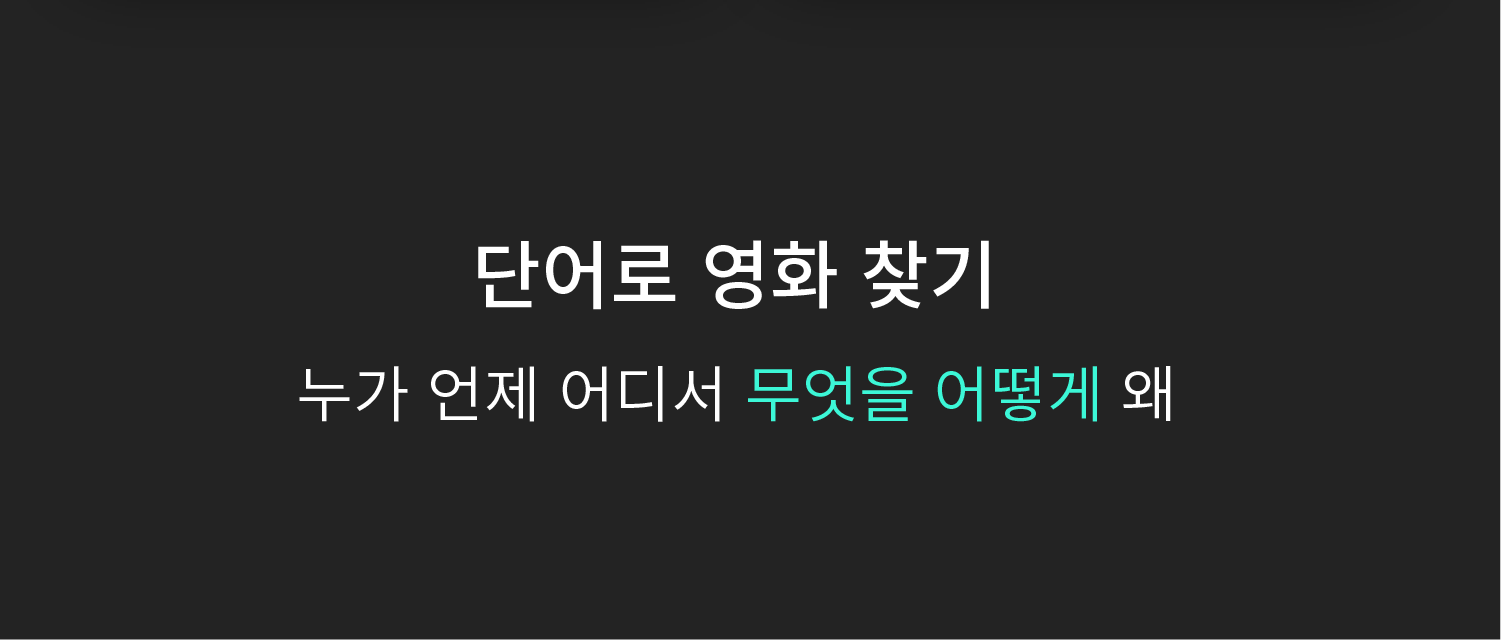
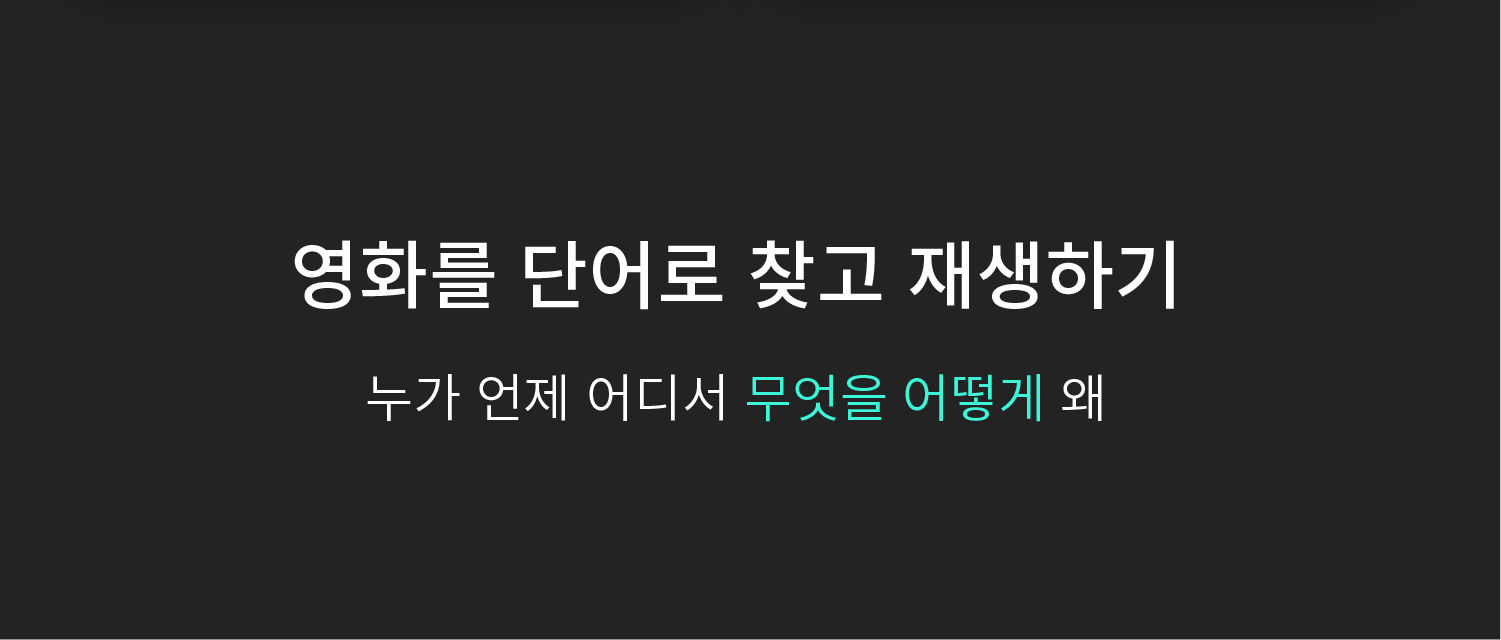
내용 업데이트

Changed region(s): [[0.1839, 0.375, 0.7968, 0.5], [0.1839, 0.5625, 0.7968, 0.6562]]

diff --git a/design-thinking.html b/design-thinking.html
@@ -56,14 +56,14 @@
             <div class="article-title">
                 디자인 사고</div>
             <div class="article-h1">
-                디자인 사고는 무언가를 창조할 때 생각하는 과정입니다. 관찰을 통해 문제를 정의하고 많은 가능성을 실험을 통해 성공과 실패를 반복하며 발전해나가는 방법론입니다. 이 과정에서 정리한 내용들이 문제 해결 방법을 선택하는 기준이 됩니다.<br><br> 주관, 느낌, 번뜩이는 아이디어, 천재와 같은 개념으로 오해받는 창의성을 명확하게 다루기 위한 접근 방식으로 '자신이 만들고 싶은 것'이 무엇이며 필요한 정보들이 무엇인지 명확하게 파악할 수 있습니다. 이 과정을 눈에 보이도록 기록해 각 단계 마다 필요한 것들을 나 혹은 구성원에게 명확하게 요구할 수 있습니다.
+                디자인 사고는 창조할 때 생각하는 과정입니다. 관찰을 통해 문제를 정의하고 실험을 통해 성공과 실패를 반복하며 발전해나가는 방법론입니다. 이 과정에서 정리한 내용이 여러 가능성 중에서 가장 적합한 방법을 선택하는 기준이 됩니다.<br><br> 주관, 느낌, 번뜩이는 아이디어, 천재와 같은 개념으로 오해받는 창의성을 명확하게 다루기 위한 접근 방식으로 '자신이 만들고 싶은 것'이 무엇이며 필요한 정보들이 무엇인지 명확하게 파악할 수 있습니다. 과정을 눈에 보이도록 기록해 각 단계마다 필요한 것들을 나 혹은 구성원에게 명확하게 요구할 수 있습니다.
             </div>
             <img class="article-img" src="./img/design-system/design_thinking/thinking_main@2x.png">
 
             <div class="article-title">
                 현상</div>
             <div class="article-h1">
-                무슨 일이 일어나고 있는지 알아내는 단계입니다. 이 단계는 어떤 맥락에 속해 있느냐에 따라 주제가 다릅니다. 모든 것을 관찰할 수는 없기 때문에 나 혹은 단체가 속해 있는 맥락이 무엇인지 파악한 뒤 관찰할 대상을 정합니다.
+                무슨 일이 일어나고 있는지 알아내는 단계입니다. 어떤 맥락에 속해 있느냐에 따라 주제가 다르며 모든 것을 관찰할 수는 없기 때문에 나 혹은 단체가 속해 있는 맥락이 무엇인지 파악한 뒤 관찰할 대상을 정합니다.
             </div>
             <img class="article-img" src="./img/design-system/design_thinking/thinking_hypothesis@2x.png">
             <div class="article-h1">
@@ -76,7 +76,7 @@
             </div>
 
             <div class="article-title">
-                발견</div>
+                수집</div>
             <div class="article-h1">
                 관찰할 현상을 선택했다면 연관된 모든 것들을 기록합니다. 발산형 사고가 필요한 단계로 한계를 두지 않고 최대한 '양'에 집중해서 목록을 만듭니다. 되도록 부사, 추상적 의견이 섞이지 않도록 주의하면서 정성적, 정량적 정보를 최대한 확보합니다.
             </div>
@@ -86,12 +86,12 @@
             <div class="article-h1">
                 <ul>
                     <li><b>브레인스토밍</b></li>
-                    분석적인 판단을 하기 전에 팀이 모여 주제와 연관된 발상을 가능한 많이 끌어내는 방법입니다.<br><br>
+                    분석적인 판단을 하기 전에 팀이 모여 주제와 연관된 발상을 가능한 한 많이 끌어내는 방법입니다.<br><br>
                     <li><b>필드 리서치</b></li>
                     사용자와 직접 대면해 어떤 환경에서 어떤 행동을 하는지 관찰하는 방법입니다.
                     <br><br>
                     <li><b>사용자 인터뷰</b></li>
-                    다수 혹은 소수의 사람들에게 제한된 상황을 설정 속에서 질문을 하고 구체적인 목표를 어떻게 수행하는지 관찰하는 방법입니다.
+                    다수 혹은 소수의 사람에게 제한된 상황을 설정 속에서 질문하고 구체적인 목표를 어떻게 수행하는지 관찰하는 방법입니다.
                     <br><br>
                     <li><b>터치 포인트 </b></li>
                     사용자와의 모든 접점을 말합니다. 위치, 장소, 웹, 메일링(이메일과 우편), VOC 채널 상품 등이 있으며 서비스 디자인뿐만 아니라 브랜딩과도 밀접한 관계가 있습니다.<br><br>
@@ -103,16 +103,16 @@
                 이해
             </div>
             <div class="article-h1">
-                발견 단계에서 찾은 수많은 정보를 정리하는 단계입니다. 수렴적 사고가 필요한 단계로 현상을 설명할 수 있는 '질'이 높은 정보를 찾아내야합니다. 원인과 결과, 구조와 원리를 파악한 뒤 다양한 가설를 세워 실행 단계로 넘어갑니다.
+                수집 단계에서 찾은 수많은 정보를 정리하는 단계입니다. 수렴적 사고가 필요한 단계로 현상을 설명할 수 있는 '질'이 높은 정보를 찾아내야 합니다. 현상이 일어난 원인과 결과를 파악한 뒤 다양한 가설을 세워 실행 단계로 넘어갑니다.
             </div>
             <img class="article-img" src="./img/design-system/design_thinking/thinking_analysis@2x.png">
             <div class="article-h1">
                 <ul>
                     <li><b>페르소나</b></li>
-                    가상으로 사용자를 설정하는 방법입니다. 우선순위는 사용자가 누구냐에 따라 달리지기 때문에 가장 먼저 정의해야합니다.
+                    가상으로 사용자를 설정하는 방법입니다. 사용자가 누구냐에 따라 많은 기준이 달라지기 때문에 가장 먼저 정의하는 것이 좋습니다. 
                     <br><br>
                     <li><b>사용자 여정 맵</b></li>
-                    서비스와 처음 만나는 지점부터 끝나는 지점까지의 과정을 그림이나 사진, 도표 등으로 시각화 하는 방법입니다. 어떤 단계에서 불편함을 느끼는지 찾는데 도움이 됩니다.
+                    서비스와 처음 만난 지점부터 끝나는 지점까지의 과정을 그림이나 사진, 도표 등으로 시각화하는 방법입니다. 
                     <br><br>
                 </ul>
             </div>
@@ -121,7 +121,7 @@
             <div class="article-title">
                 계획</div>
             <div class="article-h1">
-                이해 단계에서 찾아낸 정보를 토대로 문제를 해결할 방법을 찾는 단계입니다. 다양한 가설에 기반해 실현 가능한 방법을 찾습니다. 어떤 디바이스에 어떤 컨텐츠 혹은 서비스로 문제를 해결해줄지 목록을 작성합니다.
+                이해 단계에서 찾아낸 정보를 토대로 문제를 해결할 방법을 찾는 단계입니다. 다양한 가설에 기반해 실현 가능한 방법을 찾습니다. 현실적으로 실행할 수 있는 방법을 찾아내고 구체적으로 어떻게 실행할지를 결정합니다.
             </div>
             <img class="article-img" src="./img/design-system/design_thinking/thinking_plan@2x.png">
             <div class="article-h1">
@@ -137,7 +137,7 @@
             <div class="article-title">
                 제작</div>
             <div class="article-h1">
-                계획 단계에서 정한 범위 안에서 실제로 구현하는 단계입니다. 시각적인 구현과 개발이 되어 실제로 사용자가 사용할 수 있는 단계까지를 말합니다. 이 단계에서 Lean 혹은 Agile 방법론이 많이 사용되고 있습니다.
+                계획 단계에서 정한 범위 안에서 구현하는 단계로 실제로 사용자가 바로 사용할 수 있는 형태를 만들어냅니다. 웹, 모바일 제작 테크닉부터 인지심리학, HCI(Human-Computer Interface)와 같은 이론들이 적용됩니다.
             </div>
 
             <img class="article-img" src="./img/design-system/design_thinking/thinking_make@2x.png">
@@ -153,7 +153,7 @@
             <div class="article-title">
                 결과</div>
             <div class="article-h1">
-                가설에 맞춰 행동한 것이 어떤 결과를 가져왔는지 체크합니다. 테스트와 데이터 아날리스트가 여기서 적용됩니다. 결과가 만족스럽지 않다면 어느 단계를 개선해야할지 다시 확인해야합니다.
+                어떤 결과가 나왔는지 확인하는 단계입니다. 이해 단계에서 세웠던 가설에 따라 선택한 방법이 의도한대로 작동했는지 확인합니다. 만약 의도한 결과가 나오지 않았다면, 문제가 있다고 의심되는 단계부터 다시 시작합니다.
             </div>
 
             <img class="article-img" src="./img/design-system/design_thinking/thinking_result@2x.png">

diff --git a/pattern.html b/pattern.html
@@ -64,7 +64,7 @@
             <div class="article-title">
                 요소</div>
             <div class="article-h1">
-                패턴은 서비스의 핵심 목적을 달성하기 위해 다양한 패턴을 사용합니다. 복잡하게 조합이 되어 구성되므로 종류를 구분하기가 어렵지만 어떤 상황에서도 3가지 요소를 생각해야합니다.
+                서비스의 핵심 목적을 달성하기 위해 다양한 패턴을 사용합니다. 복잡하게 조합이 되어 구성되므로 종류를 구분하기가 어렵지만 어떤 패턴에서도 3가지 요소가 필요합니다.
                 <ul>
                     <li><b>맥락:</b> 사용자가 어떤 상황에서 무엇이 필요한가</li>
                     <li><b>흐름:</b> 어떤 과정을 거치는가 </li>
@@ -75,7 +75,7 @@
             <div class="article-title">
                 고르기</div>
             <div class="article-h1">
-                맥락과 흐름을 구체적으로 정했다면 되도록 OS에서 제시하는 보편적인 패턴을 사용하는 것이 사용자 경험을 유지하는데 도움이 됩니다. (사용자는 언제나 OS를 사용하던 중 서비스를 이용할 것입니다.)
+                3가지 요소를 구체적으로 이해했다면 되도록 OS에서 제시하는 보편적인 패턴을 사용하는 것이 사용자 경험을 유지하는데 도움이 됩니다. (사용자는 언제나 OS를 사용하던 중 서비스를 이용할 것입니다.)
                 <div class="sidebar-outlink" onclick="location.href='https://material.io/guidelines/patterns/';">
                     <img class="sidebar-icon" src="./img/icon/icon_outlink.svg">Google Material Design - Patterns
                 </div>
@@ -89,18 +89,18 @@
             <div class="article-title">
                 만들기</div>
             <div class="article-h1">
-                서비스에 알맞게 기존의 패턴을 변형하거나 이전에 경험하지 못한 패턴을 제시해야할 때가 있습니다. 먼저 맥락을 파악한 뒤, 다른 서비스 혹은 현실에서 어떤 패턴으로 문제를 해결하는지 조사합니다. 이후 사용자의 행동 단계에 맞추어 구체적인 시나리오에 맞춰 구현합니다. 많이 사용되고 있는 검색 패턴을 예시로 살펴보겠습니다.
+                서비스에 알맞게 기존의 패턴을 변형하거나 이전에 경험하지 못한 패턴을 제시해야 할 때가 있습니다. 먼저 맥락을 파악한 뒤, 다른 서비스 혹은 현실에서 어떤 패턴으로 문제를 해결하는지 조사합니다. 이후 사용자의 행동 단계에 맞춰 구현합니다. 이해하기 쉽도록 많이 사용되고 있는 검색 패턴을 예시로 살펴보겠습니다.
             </div>
 
             <div class="article-title">
                 검색</div>
             <div class="article-h1">
-                언제 어디서든 내가 가지고 있는 단서로 원하는 것을 찾는 기능입니다. 내가 찾고자 하는 정보 (나에게 필요한지 몰랐던 정보조차)를 찾을 수 있게 해주는 것이 목적입니다.
+                사용자가 가지고 있는 단서로 원하는 것을 찾는 기능입니다. 사용자가 찾고자 하는 정보 (사용자에게 필요한지 몰랐던 정보조차)를 찾을 수 있게 해주는 것이 목적입니다.
 
                 <ul>
-                    <li>맥락: 사용자가 기억하는 단어로 영화 찾기</li>
-                    <li>흐름: 단어 입력 - 결과 확인 - 더 자세히 보기</li>
-                    <li>형태: 텍스트 필드, 그리드 리스트</li>
+                    <li><b>맥락:</b> 사용자가 기억하는 단어로 영화 찾고 재생하기</li>
+                    <li><b>흐름:</b> 단어 입력 - 결과 확인 - 더 자세히 보기</li>
+                    <li><b>형태:</b> 텍스트 필드, 그리드 리스트</li>
                 </ul>
 
             </div>
@@ -108,7 +108,7 @@
             <div class="article-title">
                 맥락 짜기</div>
             <div class="article-h1">
-                맥락은 육하원칙에 따른 사용자의 상황에 대한 정의입니다. 서비스에서 사용될 가장 기본적인 패턴은 먼저 무엇을 어떻게에 집중합니다. 광범위한 범위에서 반복적으로 쓰일 패턴이기 때문에 무엇을 어떻게에 집중합니다.
+                사용자가 속해 있는 상황을 정리합니다. 육하원칙에 따라 정리하는 것이 편리하며 웹, 모바일과 같이 환경이 제한적일 경우에는 다른 원칙보다 "무엇을 어떻게"가 중요합니다. 이 과정을 통해 '목적'을 정의합니다.
             </div>
             <img class="article-img" src="./img/design-system/pattern/pattern_context@2x.png">
 
@@ -116,32 +116,35 @@
             <div class="article-title">
                 흐름 짜기</div>
             <div class="article-h1">
-                맥락에서 찾아낸 목적을 위해 어떤 단계가 필요한지 정리합니다. 단계별 목적을 어떤 페이지에서 달성해주고 다음 단계로 넘어갈지를 계획합니다. 
+                맥락에서 찾아낸 "목적"을 달성하기 사용자가 어떤 단계로 접근하는지를 정리합니다. 목적을 달성하기 위한 단계별 "단계별 목적"을 정의하며 이것을 기준으로 페이지를 디자인합니다.
             </div>
             <img class="article-img" src="./img/design-system/pattern/pattern_flow@2x.png">
 
             <div class="article-title">
                 경우의 수</div>
             <div class="article-h1">
-                '흐름'에서 찾아낸 정보를 토대로 각 단계별로 필요한 것들을 정리합니다. 단계별 목적을 어떤 페이지에서 달성해주고 다음 단계로 넘어갈지를 계획합니다. 기본 시나리오로 텍스트 필드에 자신의 단서를 입력하고 서비스는 그에 대한 피드백을 줍니다.
+                흐름에서 찾은 "단계별 목적"에 맞춰 발생할 수 있는 경우의 수를 예측합니다. 서비스에서는 사용자의 행동에 의해 많은 경우의 수가 발생합니다. 어떤 변수가 있는지 찾아낸 뒤 그에 따른 예측 결과를 정리합니다. 
             </div>
             <img class="article-img" src="./img/design-system/pattern/pattern_variable@2x.png">
             
             
             <div class="article-title">
-                알고리즘 짜기</div>
+                알고리즘 짜기(선택적)</div>
             <div class="article-h1">
-                '흐름'에서 찾아낸 정보를 토대로 각 단계별로 필요한 것들을 정리합니다. 단계별 목적을 어떤 페이지에서 달성해주고 다음 단계로 넘어갈지를 계획합니다. 기본 시나리오로 텍스트 필드에 자신의 단서를 입력하고 서비스는 그에 대한 피드백을 줍니다.
+                가능하다면 '경우의 수' 단계에서 얻은 결과를 토대로 어떤 구조로 작동할지를 예측합니다.
             </div>
-
-
             <img class="article-img" src="./img/design-system/pattern/pattern_algorithm@2x.png">
 
 
             <div class="article-title">
                 형태 짜기</div>
             <div class="article-h1">
-                각 페이지에서 필요한 목적을 달성하기 위해 컴포넌트를 배치합니다. 지속적으로 검색할 수 있도록 언제 어디서나 검색을 발견할 수 있어야합니다. 형태를 짠 이후에는 상태에 대해서 표시되는 방식을 정합니다. 입력-출력 만약 검색이 중요하다면 검색을 계속 할 수 있는 형태여야 합니다. 언제 어디서나 검색을 발견할 수 있어야합니다.
+                "흐름"과 "경우의 수"를 기준으로 페이지를 제작합니다. 예측되는 화면 사이즈에 어떤 기능을 수행할지 상상합니다. 해당 영역에 가장 적합한 컴포넌트를 적용한뒤 변수에 따른 변화를 정합니다.
+                
+                지속적으로 검색할 수 있도록 언제 어디서나 검색을 발견할 수 있어야합니다.
+                
+                형태를 짠 이후에는 상태에 대해서 표시되는 방식을 정합니다. 입력-출력 만약 검색이 중요하다면 검색을 계속 할 수 있는 형태여야 합니다. 언제 어디서나 검색을 발견할 수 있어야합니다.
+                기본 시나리오로 텍스트 필드에 자신의 단서를 입력하고 서비스는 그에 대한 피드백을 줍니다.
             </div>
             
             <img class="article-img" src="./img/design-system/pattern/pattern_conceptbox@2x.png">

diff --git a/preference.html b/preference.html
@@ -59,7 +59,7 @@
             <div class="article-title">
                 폴더</div>
             <div class="article-h1">
-                프로젝트를 시작할 때 폴더를 명확하게 정의하지 않으면 파일이 어디에 있는지 찾기가 어려워집니다.같은 파일이 중복되지 않도록 하나의 리소스로 GUI, 프로토타이핑, 마케팅 등에 사용할 수 있는 폴더 구조입니다.
+                기준 없이 폴더를 만들면 파일이 어디에 있는지 찾기가 어려워지고 중복된 파일이 많아집니다. GUI, 프로토타이핑, 마케팅 등에 사용할 용도로 정한 폴더 구조입니다.
             </div>
             <img class="article-img" src=" ./img/design-system/folder.png">
 
@@ -75,7 +75,7 @@
                 <ul>
                     <li><b>_assets:</b> 실제 코드에 적용될 디자인 요소</li>
                     <li><b>_exports:</b> 페이지 스크린샷 및 이미지</li>
-                    <li><b>_library:</b> 디자인 가이드 라인 및 라이브러리</li>
+                    <li><b>_library:</b> 디자인 가이드라인 및 라이브러리</li>
                     <li><b>gui:</b> GUI 작업 파일</li>
                     <li><b>interaction:</b> 애니메이션, 인터랙션 작업 파일</li>
                 </ul>
@@ -84,14 +84,14 @@
             <div class="article-title">
                 단위</div>
             <div class="article-h1">
-                스마트폰, 모니터, 티비 등 스크린의 크기나 픽셀 밀도가 같지 않기 때문에 기본 단위는 곱하거나 나누어도 정수가 될 수 있는 짝수를 사용합니다. 짝수 중에서도 8 포인트 그리드 시스템이 널리 쓰이고 있습니다.<br> iOS의 경우 375, 750 등 8로 나눠지지 않기 때문에 그리드를 완벽하게 적용하긴 어렵습니다.<br> (2pt나 4pt은 단위가 너무 작아 결국 8pt를 기준으로 작업하는 경우가 많았습니다.)
+                스마트폰, 모니터, 티비 등 스크린의 크기나 픽셀 밀도가 같지 않기 때문에 기본 단위는 곱하거나 나누어도 정수가 될 수 있는 짝수를 사용합니다. 짝수 중에서도 8 포인트 그리드 시스템이 널리 쓰이고 있습니다.<br> iOS의 경우 375, 750 등 8로 나뉘지 않기 때문에 그리드를 완벽하게 적용하긴 어렵습니다.<br> (2pt나 4pt는 단위가 너무 작아 결국 8pt를 기준으로 작업하는 경우가 많았습니다)
             </div>
             <img class="article-img" src=" ./img/design-system/unit@2x.png">
 
             <div class="article-title">
                 PX PT DP</div>
             <div class="article-h1">
-                px를 기본 단위로 디자인하면 스크린마다 다른 픽셀 밀도(PPI = 1inch 공간 안에 표시되는 픽셀 수)의 차이로 인해 크기가 작아지는 현상이 있습니다. iOS Android에서는 어떤 화면에서도 같은 크기로 보이도록 pt와 dp 단위를 사용합니다. 그래픽 디자인 툴은 보통 1px = 1pt 로 설정되어 따로 설정을 변경할 필요는 없습니다.
+                px를 기본 단위로 디자인하면 스크린마다 다른 픽셀 밀도(PPI = 1inch 공간 안에 표시되는 픽셀 수)의 차이로 인해 크기가 작아지는 현상이 있습니다. iOS Android에서는 어떤 화면에서도 같은 크기로 보이도록 pt와 dp 단위를 사용합니다. 그래픽 디자인 툴은 보통 1px = 1pt로 설정되어 따로 설정을 변경할 필요는 없습니다.
             </div>
 
             <img class="article-img" src=" ./img/design-system/pixel_density@2x.png">

diff --git a/composition.html b/composition.html
@@ -68,24 +68,25 @@
                 원자
             </div>
             <div class="article-h1">
-                색, 서체, 아이콘, 이미지 등 디자인을 구성하는 가장 작은 단위 요소
+                디자인을 구성하는 가장 작은 단위 요소<br>(색, 서체, 아이콘, 이미지 등 )
             </div>
             <img class="article-img" src="./img/design-system/design-elemental/atoms@2x.png">
 
             <div class="article-title">분자</div>
-            <div class="article-h1">썸네일, 검색 박스와 같이 디자인 원자가 조합된 형태<br> (ex.이건 대충 내용이 뭐지? -> 컨텐츠의 내용을 파악할 수 있는 요약 보여주기)</div>
-            <img class="article-img" src="./img/design-system/design-elemental/molecules@2x.png">
+            <div class="article-h1">디자인 원자가 조합된 형태<br>(썸네일, 검색 박스와 같은 컴포넌트) 
+            </div>
+                <img class="article-img" src="./img/design-system/design-elemental/molecules@2x.png">
 
 
             <div class="article-title">유기체</div>
             <div class="article-h1">디자인 분자가 모여 더 복합적인 기능을 수행하는 형태
-                <br>(ex.이런거 더 없나? -> 비슷한 성격의 컨텐츠를 모아서 보여주기)</div>
+                <br>(리스트, 네비게이션 박스와 같은 컴포넌트)  </div>
 
             <img class="article-img" src="./img/design-system/design-elemental/organism@2x.png">
 
 
             <div class="article-title">구조</div>
-            <div class="article-h1">사용자가 1-2가지 이상의 목적을 달성하기 위해 원자, 분자, 유기체가 구조적으로 배치한 형태<br>(ex. 여기엔 뭐 있는거지? -> 이 공간에서 사용자가 무엇을 볼 수 있는지 전체를 파악할 수 있게하기)</div>
+            <div class="article-h1">1-2가지 이상의 목적을 달성하기 위해 원자, 분자, 유기체가 구조적으로 배치한 형태<br>(메인페이지, 검색페이지 등과 같은 페이지) </div>
 
             <img class="article-img" src="./img/design-system/design-elemental/structure@2x.png">
             <div class="sidebar-title">

diff --git a/service-design.html b/service-design.html
@@ -56,7 +56,7 @@
             <div class="article-title">
                 시작</div>
             <div class="article-h1">
-                서비스 디자인에 대한 글 묶음입니다. 툴을 사용하는 방법보다는 디자인할 때 적용되는 다양한 규칙들이 어떤 원리로 동작하는지에 중점을 두었습니다. 어떤 개념들이 있는지 살펴보고 프로젝트의 성격에 맞게 변형하길 바랍니다. 사실 문서는 재미도 없고 오래 걸리기만 하는데 짧게 정리하다보니 엄청 길어졌습니다.
+                서비스 디자인에 대한 글 묶음입니다. 툴을 사용하는 방법보다는 디자인에 적용되는 규칙이 어떤 원리로 동작하는지에 중점을 두었습니다. 삽화와 짧은 문장으로 설명할 수 없다면 아직 이해하지 못했다고 생각하며 정리하고 있습니다.
             </div>
             <img class="article-img" src="img/main-thumnail/main_thumnail_v2.png">
         </div>
@@ -64,7 +64,7 @@
             <div class="article-title">
                 디자이너의 역할</div>
             <div class="article-h1">
-                디자인은 눈에 보이는 것을 그리는 것에서 총체적인 경험을 설계하는 것에 가까워지고 있습니다. 구체적인 결과물을 만들어내는 것은 앞으로 더욱 쉬워질 것이며, 디자이너는 눈, 코, 입, 귀 등 정보를 받아들이는 신체에 대한 이해나 사람이 정보를 이해하고 행동하는 방식, 생각하는 법에 더 집중하게 될 것입니다.
+                서비스 디자인은 눈에 보이는 것을 그리는 것에서 총체적인 경험을 설계하는 것에 가까워지고 있습니다. 앞으로 결과물을 만들어내는 것은 더욱 쉬워질 것입니다. 서비스 디자이너는 사람의 신체가 어떻게 정보를 얻고 의식이 정보를 어떻게 다루는지에 더 집중해야 할 것입니다.
             </div>
             <img class="article-img" src="img/design-system/intro/role.png">
         </div>

diff --git a/css/main.css b/css/main.css
@@ -221,9 +221,10 @@
     }
 
     .topic-container {
-        width: 100%;
+        width: 90%;
     }
-
+    
+    
     .topic-title {
         text-align: center;
         width: 100%;
